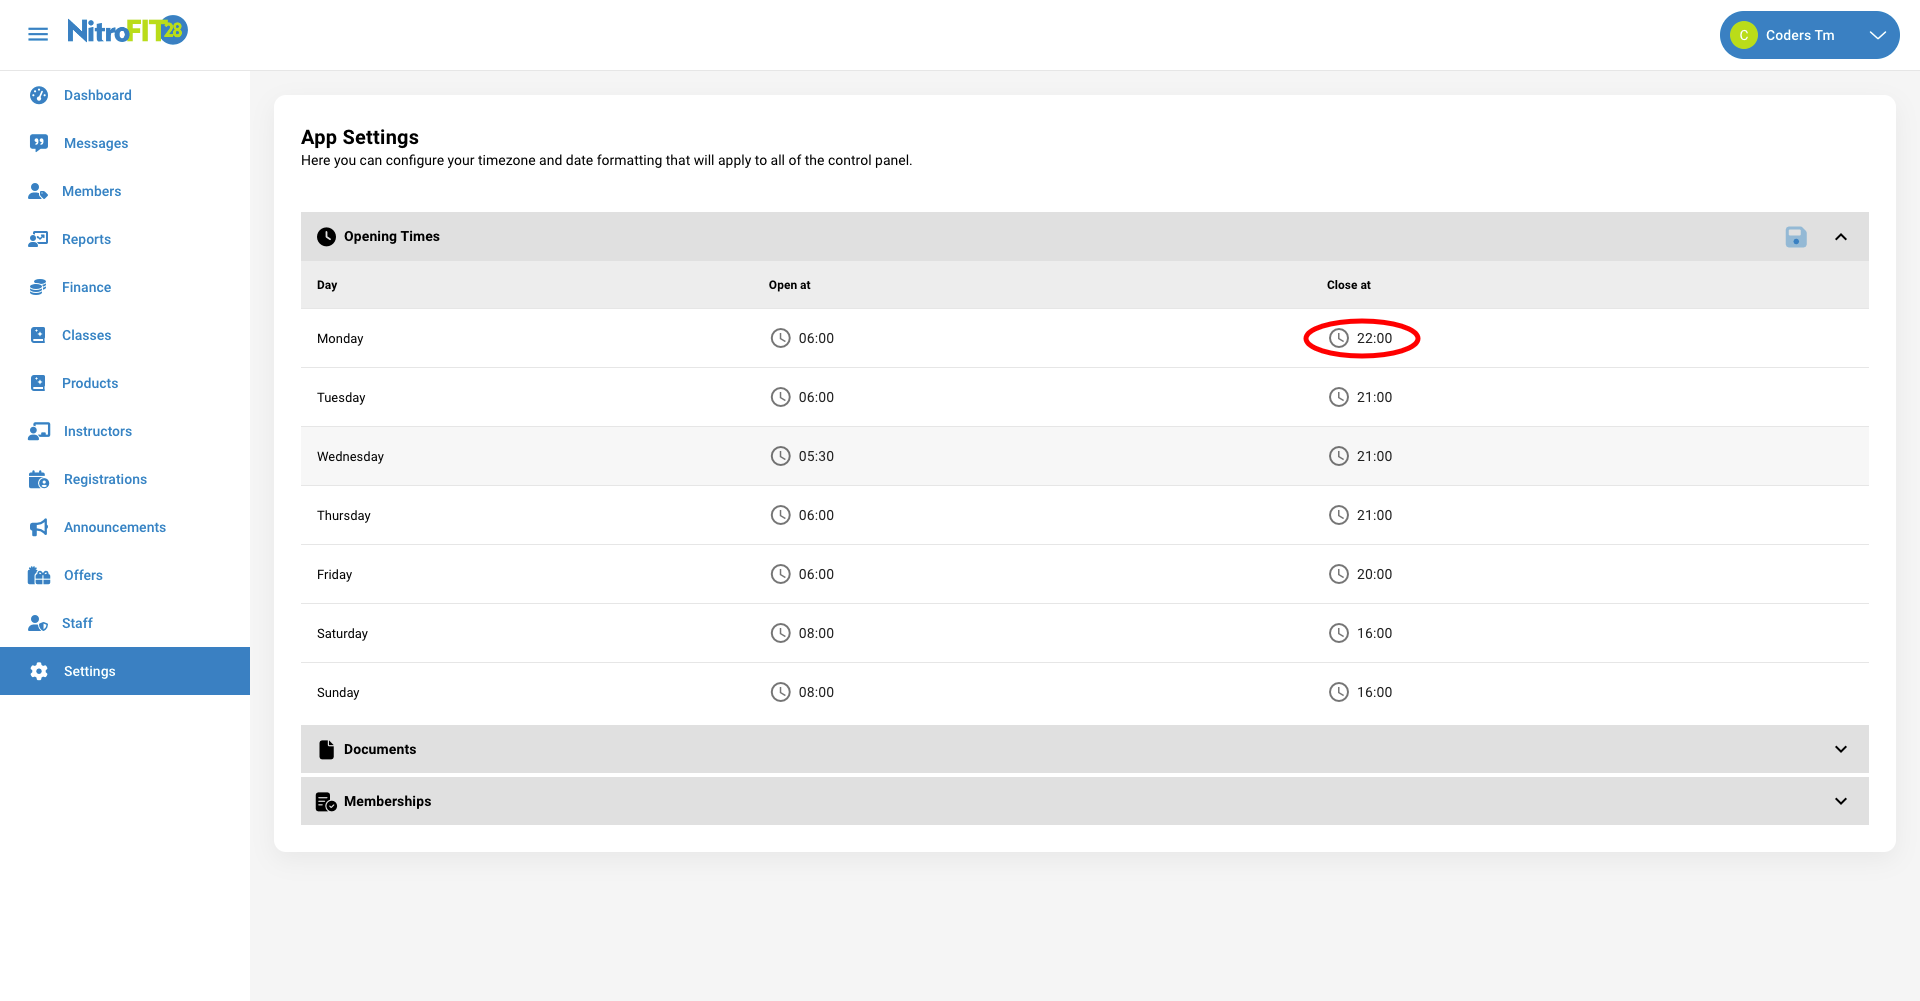
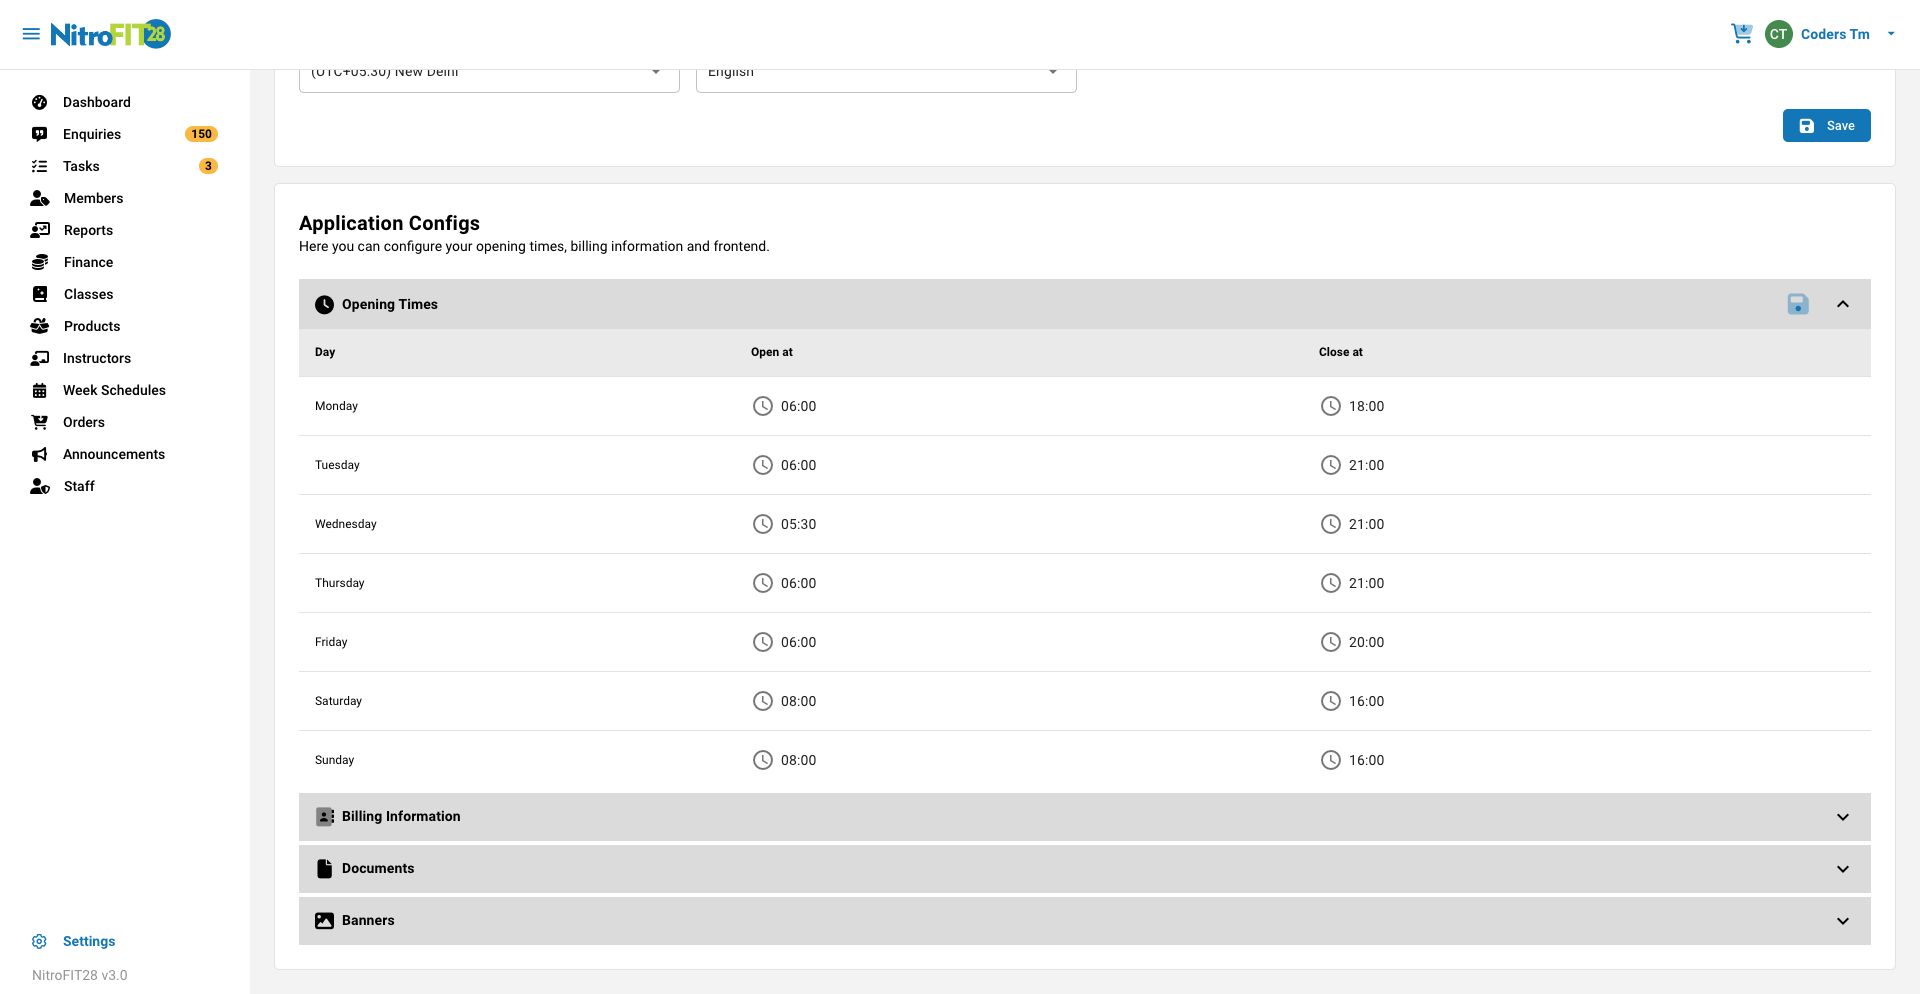
updated docs

diff --git a/docs/.vitepress/config.js b/docs/.vitepress/config.js
@@ -11,8 +11,8 @@ const NitroFIT28SideBar = [
   {
     text: 'Usage',
     items: [
-      { text: 'Opening Times', link: '/nitrofit28/opening-times' },
-      { text: 'Membership', link: '/nitrofit28/membership' },
+      { text: 'App Settings', link: '/nitrofit28/app-settings' },
+      // { text: 'Membership', link: '/nitrofit28/membership' },
     ]
   }
 ]

diff --git a/docs/nitrofit28/app-settings.md b/docs/nitrofit28/app-settings.md
@@ -1,0 +1,65 @@
+# App Settings
+
+Here you can configure your timezone and date formatting that will apply to all of the control panel.
+
+### Company Name
+Enter your company name as you wish it to appear throughout the NitroFIT28 Admin and Client Areas.
+
+### Email Address
+This is the default email address that will appear as the sender on all of the email that NitroFIT28 sends to you and your customers.
+
+![Image](/nitrofit28/settings/main.jpg)
+
+## Opening Times
+
+The Opening Times section outlines the precise hours when our gym is open and closed. Stay updated on our daily schedule to plan your workouts accordingly.
+
+Go to `Admin` -> `Settings` -> `Opening Times`
+
+![Image](/nitrofit28/opentime/1.png)
+
+1. Click on clock and set your time
+
+![Image](/nitrofit28/opentime/2.png)
+
+2. Click on save icon to save the changes
+
+![Image](/nitrofit28/opentime/3.png)
+
+Now you can see that changes on https://your-domain.com/opening-times
+
+## Billing Information
+
+The Billing Information section serves as the hub for managing crucial details regarding your gym's legal identity. Here, you can input and update the legal business name and address, which are essential components for generating accurate and professional invoices. Additionally, this information seamlessly integrates into email footers, ensuring that all communications maintain a polished and legally compliant appearance. Keeping this information up-to-date in the Billing Information section guarantees accuracy in financial transactions and reinforces your gym's commitment to transparency and professionalism.
+
+Go to `Admin` -> `Settings` -> `Billing Information`
+
+![Image](/nitrofit28/settings/billings-info.jpg)
+
+## Homepage Banner
+
+The Banners section is your dynamic canvas for capturing attention and promoting special offers on the home page. Here, you can effortlessly manage the home page slider to feature eye-catching banners that highlight special promotions and actionable items. Whether it's a limited-time discount, a new class introduction, or an exclusive membership offer, this section empowers you to curate a visually engaging and compelling display. Utilize the Banners section to captivate your audience, drive user engagement, and effectively communicate the exciting opportunities your gym has to offer.
+
+Go to `Admin` -> `Settings` -> `Banners`
+
+![Image](/nitrofit28/banner/1.jpg)
+
+1. Click on plus icon to add new banner and click on edit icon to editing the banner.
+
+![Image](/nitrofit28/banner/2.jpg)
+
+2. Update your banner info and click on done.
+
+## Documents
+
+The Documents section is your centralized repository for managing essential files within both the frontend and members area. From informative guides and policy documents for public access to exclusive member resources, this section streamlines document organization and accessibility. Easily upload, update, and categorize files to ensure seamless access for both the general audience and members. Whether it's sharing fitness guides with the public or providing exclusive content to members, the Documents section empowers efficient document management for a well-informed and engaged user community.
+
+Go to `Admin` -> `Settings` -> `Documents`
+
+![Image](/nitrofit28/documents/1.png)
+
+1. Click on thumbnail to editing the banner.
+
+![Image](/nitrofit28/documents/2.png)
+
+2. Select your docments and click on done.

diff --git a/docs/nitrofit28/installation.md b/docs/nitrofit28/installation.md
@@ -6,9 +6,9 @@ This section will help you build a basic NitroFIT28 documentation site from grou
 
 For getting started an Quasar application you needs two things as Prerequisites. 
 
-- Node 12+ for Quasar CLI with Webpack, Node 14+ for Quasar CLI with Vite.
+1. Node 12+ for Quasar CLI with Webpack, Node 14+ for Quasar CLI with Vite.
   - To check your node version, run `node -v` in a terminal/console window.
-- Yarn v1 (strongly recommended), PNPM, or NPM.
+2. Yarn v1 (strongly recommended), PNPM, or NPM.
   - To check your yarn version, run `yarn -v` in a terminal/console window.
 
 ## Server Requirements
@@ -16,7 +16,7 @@ For getting started an Quasar application you needs two things as Prerequisites.
 The NitroFIT28 has a few system requirements. You should ensure that your web server has the following minimum PHP version and extensions:
 
 - Apache, nginx, or another compatible web server.
-- PHP >= 8.0
+- PHP >= 8.1
 - BCMath PHP Extension
 - Ctype PHP Extension
 - cURL PHP Extension
@@ -29,6 +29,10 @@ The NitroFIT28 has a few system requirements. You should ensure that your web se
 - PDO PHP Extension
 - Tokenizer PHP Extension
 - XML PHP Extension
+- Imagick PHP Extension
+- ionCube Loader®	v13.0
+
+The latest ionCube Loader version for your PHP version
 
 ::: warning
 On this project, we're using the latest Laravel version (currently 9.x). Please go to [Laravel documentation](https://laravel.com/docs) page for more information.
@@ -46,13 +50,14 @@ To install the CLI using npm, open a terminal/console window and enter the follo
 
 ```
 yarn global add @quasar/cli
+yarn global add @quasar/icongenie
 ```
 
 ::: warning
 On this project, we're using the latest Quasar version (currently 2.x). Please go to [Quasar documentation](https://quasar.dev/start/quasar-cli) page for more information.
 :::
 
-## Create Subdomains
+## Create Subdomains/Aliases
 
 You will need to create there subdomain with document root `public_html/public` for api, admin and members as follows:
 
@@ -68,14 +73,14 @@ This different for different hosting service provider. Please go to [How to crea
 
 ## Build Application
 
-- Open a terminal/console window and enter the following command:
+1. Open a terminal/console window and enter the following command:
 
 ```
 cp .env.example .env
 cp .env.frontend .env.frontend.prod
 ```
 
-- Change `.env.frontend.prod`
+2. Change `.env.frontend.prod`
 
 ```
 APP_ENV=Production
@@ -88,7 +93,7 @@ TERMS_URL=https://your_app_domain.com/terms
 STRIPE_KEY=pk_test_XXXXXXXXXXXXXXXXXXXXXXX
 ```
 
-- Build > Open a terminal/console window and enter the following command:
+3. Build > Open a terminal/console window and enter the following command:
 
 ```
 yarn install

diff --git a/docs/nitrofit28/index.md b/docs/nitrofit28/index.md
@@ -9,7 +9,7 @@ By: `Coderstm`
 
 Email: `hello@coderstm.com`
 
-Version: `v2.1`
+Version: `v3.0`
 
 Thank you for purchasing this product. If you have any questions that are beyond the scope of this help file, please feel free to email via my user page contact form here for quickly support. Thank you so much!
 
@@ -26,10 +26,16 @@ Password: `Gis0ra$$;`
 
 ## Features
 - Manage Member and Enquiry
+- Manage Subscriptions with Stripe and Offline Payment Method
+- Manage Attendance by QR Code Scanner
+- Multi Language Supported
+- Manage Invoice and Payment Methods
 - Massage System Between Member and Staff
+- Powerfull Shop Module with POS
+- Products with Stock Inventory Management (Multi Location)
 - Manage User and Permission
 - PDF and CSV Export
-- Monthly/Yearly Report
+- Daily/Monthly/Yearly Report
 - Android and iPhone App
 - Sell Simple or Variable Products
 - Beautiful theme is ready to use.
